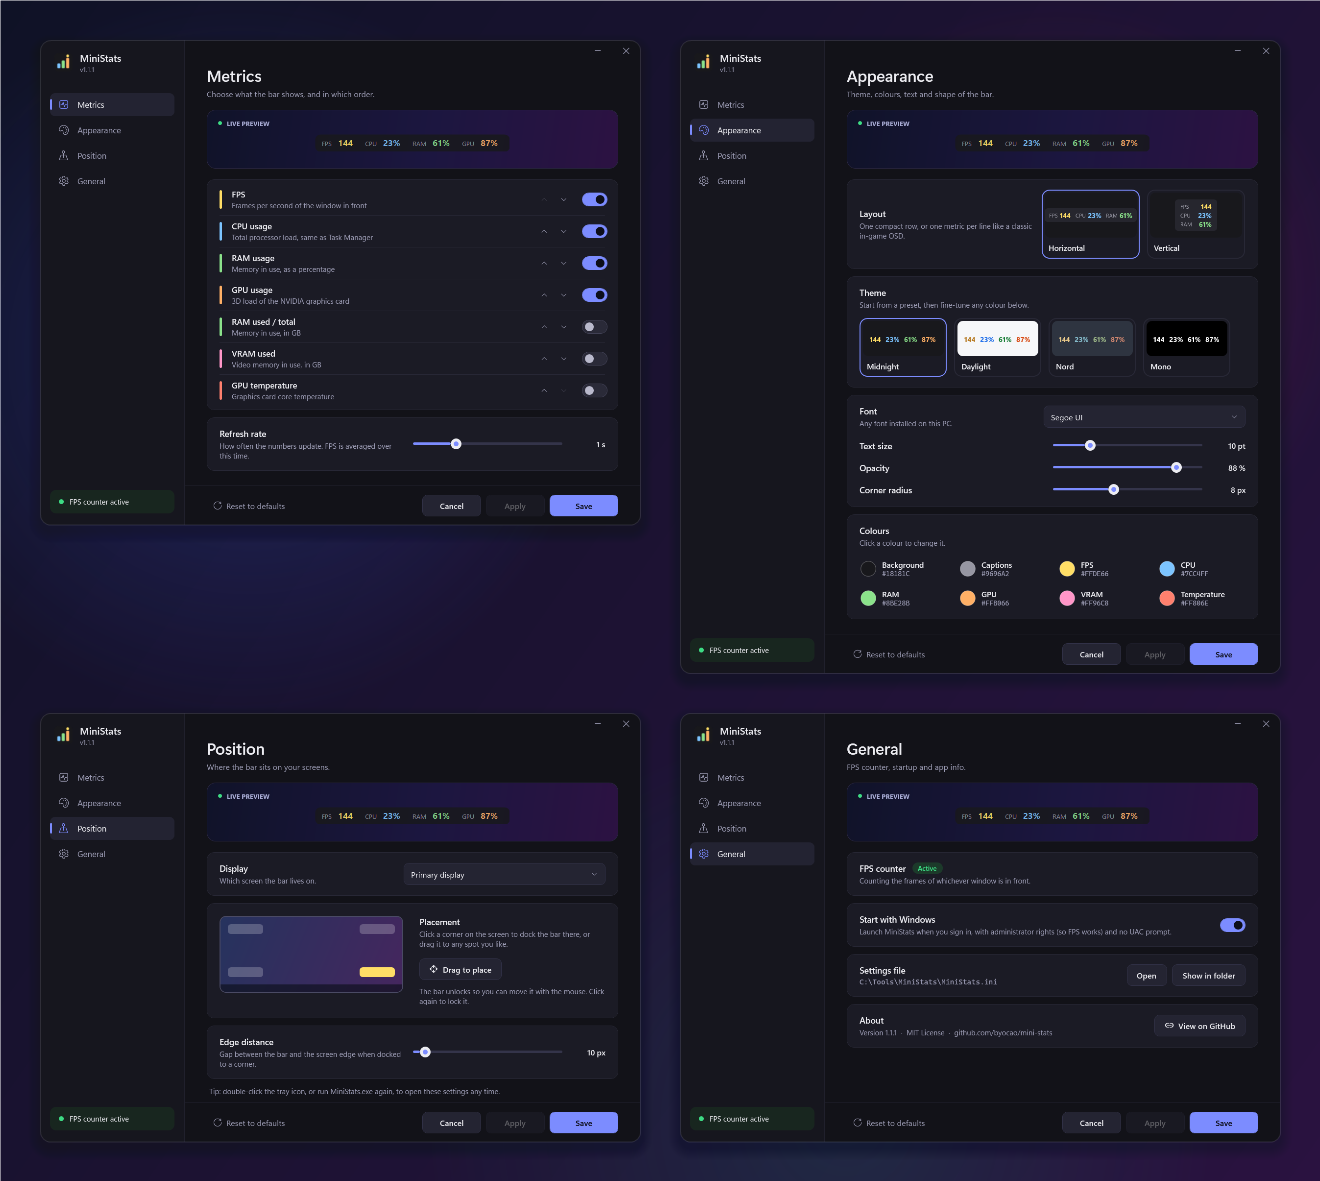
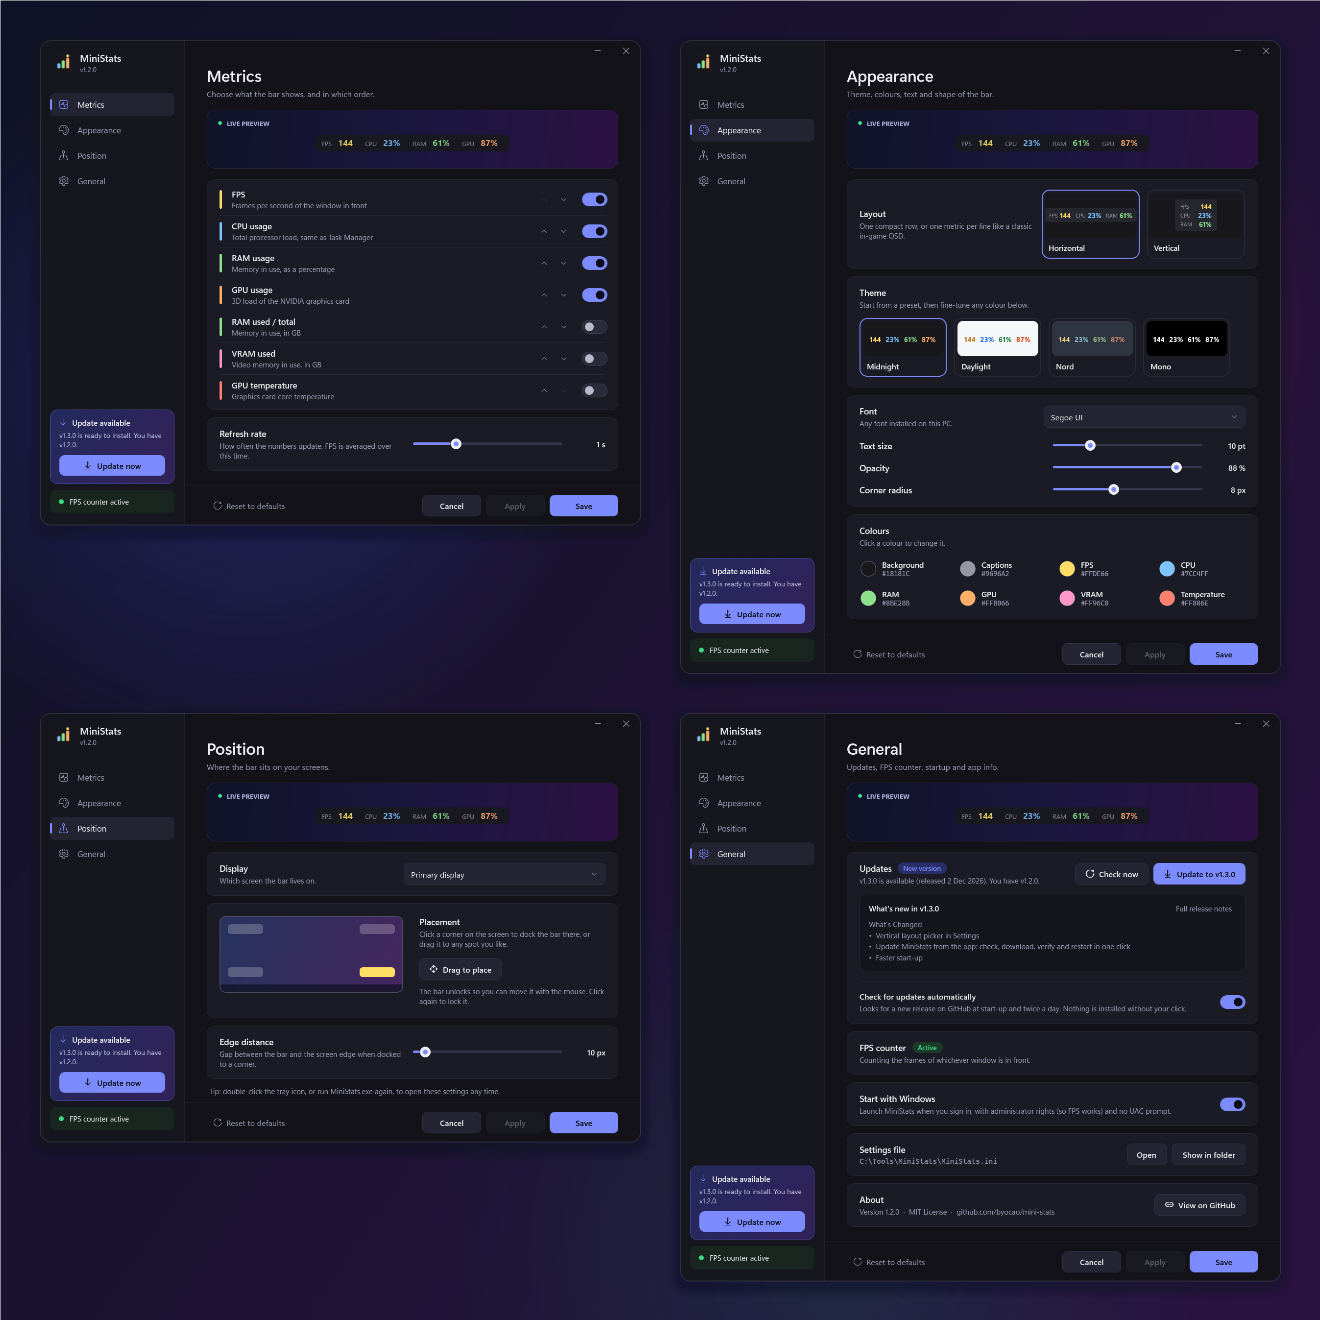
Docs: in-app updates
README: Updates section (how it works, what is verified, privacy, how to turn it off), tray entry, check_updates key, Updater.cs in the layout, --update-dry-run, FAQ on failed updates, roadmap. Settings screenshots show the update banner and the Updates card.

diff --git a/README.md b/README.md
@@ -37,6 +37,8 @@ of the way.
 - **Horizontal or vertical**: one compact row, or one metric per line like a classic in-game OSD.
 - **Settings window** with a live preview: metrics and their order, themes, colours, font, opacity, corners,
   display, corner or free placement, start with Windows. Every change shows on the real bar instantly.
+- **One-click updates**: MiniStats notices new releases on its own, and *Update now* downloads, verifies
+  (SHA-256) and installs them, then restarts — no trip to GitHub.
 - **Multi-monitor aware**: dock to any corner of any display, per-monitor DPI aware.
 - **Featherweight**: around 0.5 % CPU on a typical gaming PC and ~15 MB of RAM in use, a single ~180 KB `.exe`
   built on the .NET Framework that already ships with Windows.
@@ -64,10 +66,27 @@ Windows** MiniStats registers a logon task that launches it elevated, so you wil
 | **Metrics** | Turn each metric on or off and move it up or down — the bar follows the list order. Refresh rate. |
 | **Appearance** | Horizontal or vertical layout, one-click themes (Midnight, Daylight, Nord, Mono), any installed font, text size, opacity, corner radius, and every colour through a palette or hex code. |
 | **Position** | Display, a clickable corner map, *Drag to place* for a free position, and the distance from the screen edge. |
-| **General** | FPS counter status with *Restart as administrator*, *Start with Windows*, the settings file, version info. |
+| **General** | Updates (*Check now*, *Update to vX*, what's new, automatic checks), FPS counter status with *Restart as administrator*, *Start with Windows*, the settings file, version info. |
 
 Changes preview live on the overlay. **Save** / **Apply** keep them, **Cancel** (or <kbd>Esc</kbd>) puts the bar back
 exactly as it was. <kbd>Ctrl</kbd>+<kbd>S</kbd> saves and closes.
+
+### Updates
+
+MiniStats checks [Releases](https://github.com/byocao/mini-stats/releases) shortly after it starts and then twice a
+day. When a newer version is out, the tray icon shows a notification and the settings window shows an
+**Update available** banner (above *FPS counter active*) and the release notes under **General → Updates**.
+One click on **Update now**:
+
+1. downloads `MiniStats-win-x64.zip` from the release,
+2. checks it against the published `.sha256` file **and** GitHub's own asset digest — any mismatch aborts,
+3. checks that the unpacked exe really is MiniStats at the new version,
+4. swaps the exe (the old one is kept as `MiniStats.exe.old` until the new one is running) and restarts.
+
+If anything fails, the current version stays in place and the error is shown. Your settings file is untouched, and
+pending changes in the settings window are saved first. Checks only read public release data from `api.github.com`;
+nothing about your PC is sent. Turn them off with **Check for updates automatically** (`check_updates=false`) —
+*Check now* still works.
 
 <details>
 <summary><b>All four pages</b></summary>
@@ -79,6 +98,7 @@ exactly as it was. <kbd>Ctrl</kbd>+<kbd>S</kbd> saves and closes.
 | Item | What it does |
 | --- | --- |
 | **Settings...** | Opens the settings window (same as double-clicking the tray icon). |
+| **Install update vX...** | Only shown when a newer release is available; installs it and restarts. |
 | **Unlock to move** / **Lock position** | Makes the bar draggable (yellow outline); locking keeps it where you dropped it. |
 | **Exit** | Closes MiniStats and stops its trace session. |
 
@@ -107,6 +127,9 @@ color_gpu=#FFB066
 color_vram=#FF96C8
 color_temp=#FF806E
 
+# updates
+check_updates=true
+
 # position
 anchor=bottom-right
 monitor=primary
@@ -124,6 +147,7 @@ y=
 | `corner_radius` | `8` | `0` for square corners. |
 | `layout` | `horizontal` | `horizontal` (one row) or `vertical` (one metric per line, values right-aligned). |
 | `background`, `color_*` | see above | Hex colours. `color_label` is used for the `FPS` / `CPU` / … captions. |
+| `check_updates` | `true` | Look for new releases in the background. Installing always needs your click. |
 | `anchor` | `bottom-right` | `top-left`, `top-right`, `bottom-left`, `bottom-right`, or `custom` (uses `x`/`y`). |
 | `monitor` | `primary` | `primary` or a display number (`1`, `2`, … in Windows display order). |
 | `margin` | `10` | Distance from the screen edge when docked to a corner. |
@@ -159,6 +183,7 @@ mini-stats/
 ├─ src/MiniStats.cs          # overlay, config, ETW FPS tracker, NVML, bar renderer
 ├─ src/SettingsWindow.xaml   # settings window layout and styles (embedded resource)
 ├─ src/SettingsWindow.cs     # settings window logic
+├─ src/Updater.cs            # GitHub release check, download, SHA-256 verify, in-place swap
 ├─ src/DevTools.cs           # --selftest and --shot-settings
 ├─ src/AssemblyInfo.cs       # version metadata
 ├─ assets/                   # app + tray icons (generated by tools/make-icon.ps1)
@@ -173,6 +198,7 @@ mini-stats/
 | --- | --- |
 | `MiniStats.exe --settings [page]` | Opens the settings window (page `0`–`3`); talks to the running instance if there is one. |
 | `MiniStats.exe --selftest [report.txt]` | Drives the settings window against a fake host (themes, colours, sliders, ordering, save/cancel/reset, startup) and writes a PASS/FAIL report. Exit code 0 = all passed. |
+| `MiniStats.exe --update-dry-run [report.txt]` | Runs the real update path against GitHub — check, download, checksum, unpack, version check — into `%TEMP%` without replacing anything. Exit code 0 = updates work from this PC. |
 | `MiniStats.exe --shot-settings <dir>` | Renders every settings page to PNG. Used for the README images. |
 | `MiniStats.exe --render out.png --config my.ini --scale 2` | Renders the bar offscreen with sample values (`--sample fps=144,cpu=23,...`). |
 | `MiniStats.exe --probe 5` | Records present events for 5 s and writes `probe.txt` with present rates per process. Useful to check which process a game or emulator presents from. Run elevated. |
@@ -196,6 +222,11 @@ Exclusive fullscreen games own the whole display and nothing can be drawn on top
 **GPU shows `--`.**
 GPU metrics currently use NVIDIA NVML. AMD / Intel support via the Windows *GPU Engine* counters is on the roadmap.
 
+**An update failed — what now?**
+Nothing changed: MiniStats keeps running the version you had. The usual causes are no internet, GitHub
+rate-limiting (wait a bit), or MiniStats living in a folder it can't write to (e.g. `Program Files` while not running
+as administrator). You can always download the release by hand.
+
 **Is it safe? Does it inject into games?**
 No injection, no hooks, no kernel drivers. MiniStats never touches the game process; it only reads public Windows
 telemetry (ETW, performance counters) and the NVIDIA driver API — the same sources Task Manager and PresentMon use.
@@ -204,6 +235,8 @@ telemetry (ETW, performance counters) and the NVIDIA driver API — the same sou
 
 - [x] Settings window with live preview
 - [x] Dock to any corner of any display
+- [x] Vertical layout
+- [x] One-click in-app updates
 - [ ] AMD / Intel GPU load via `GPU Engine` performance counters
 - [ ] Frame-time graph (1 % low)
 - [ ] Optional network up/down speed
